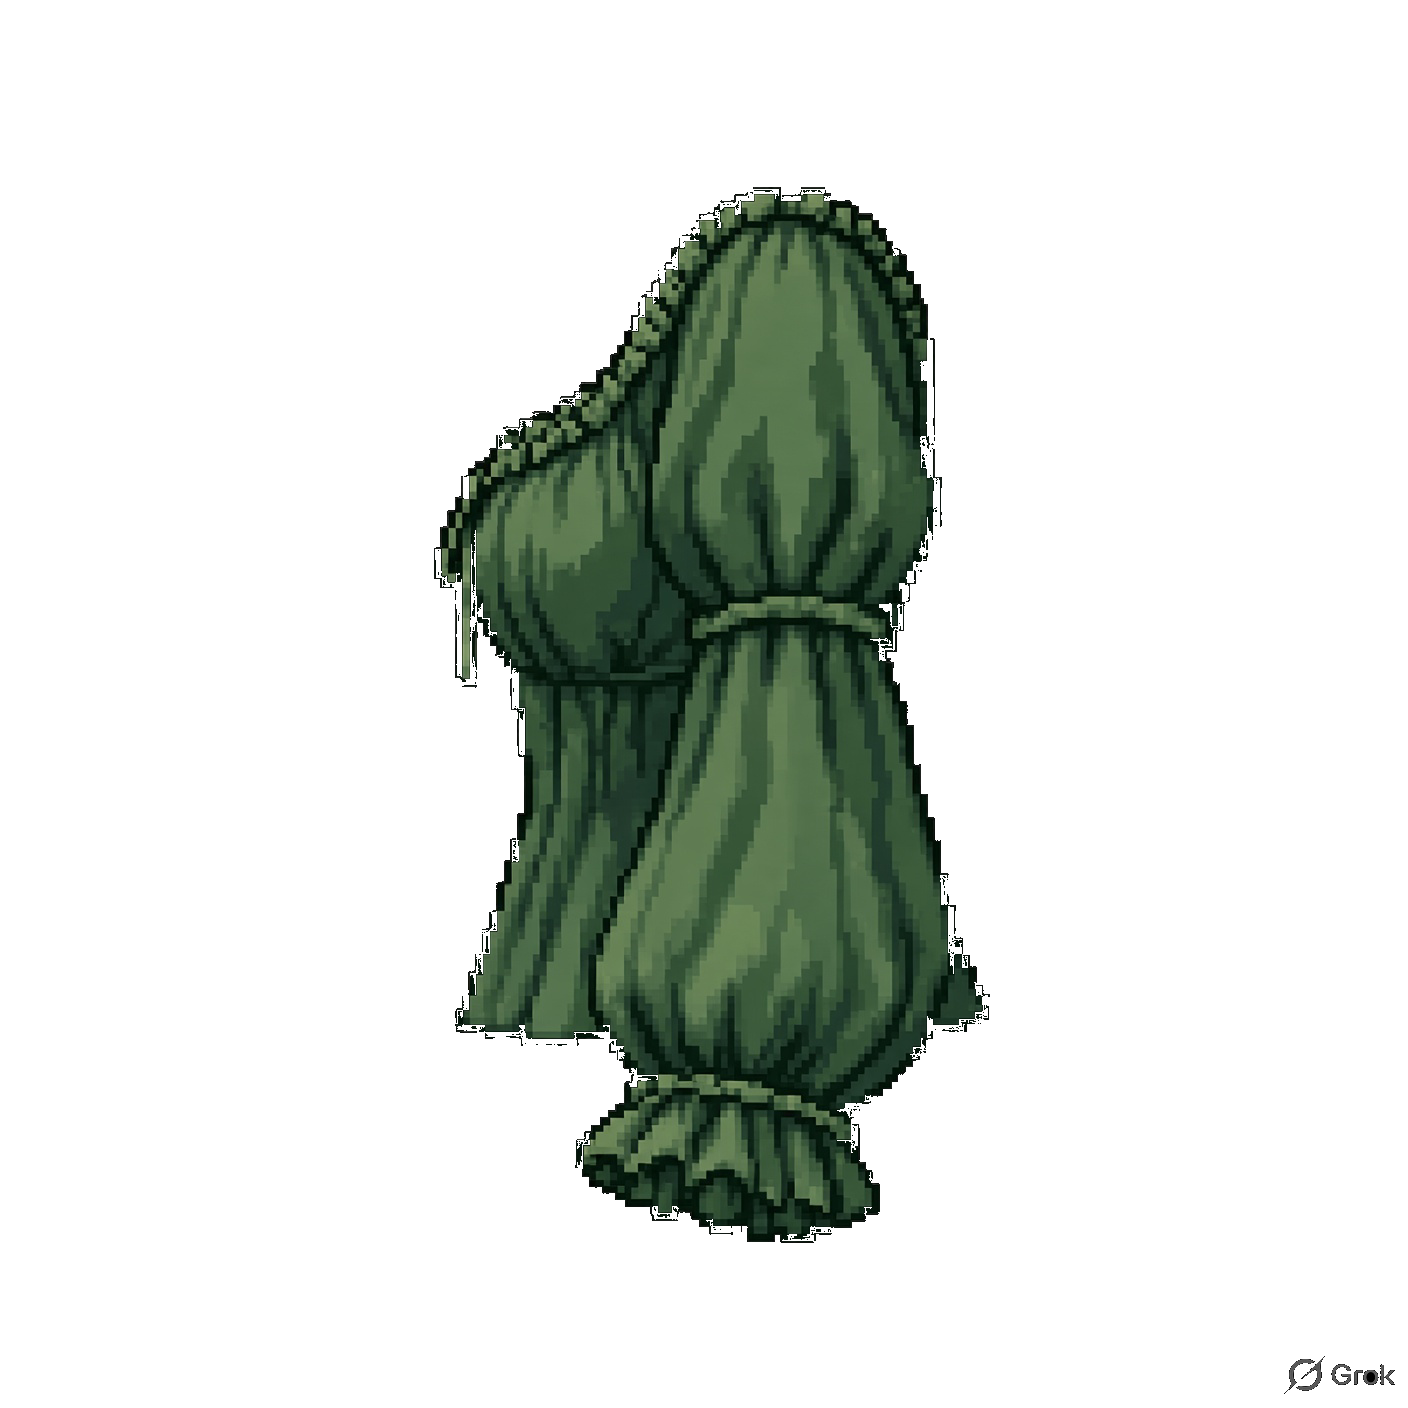
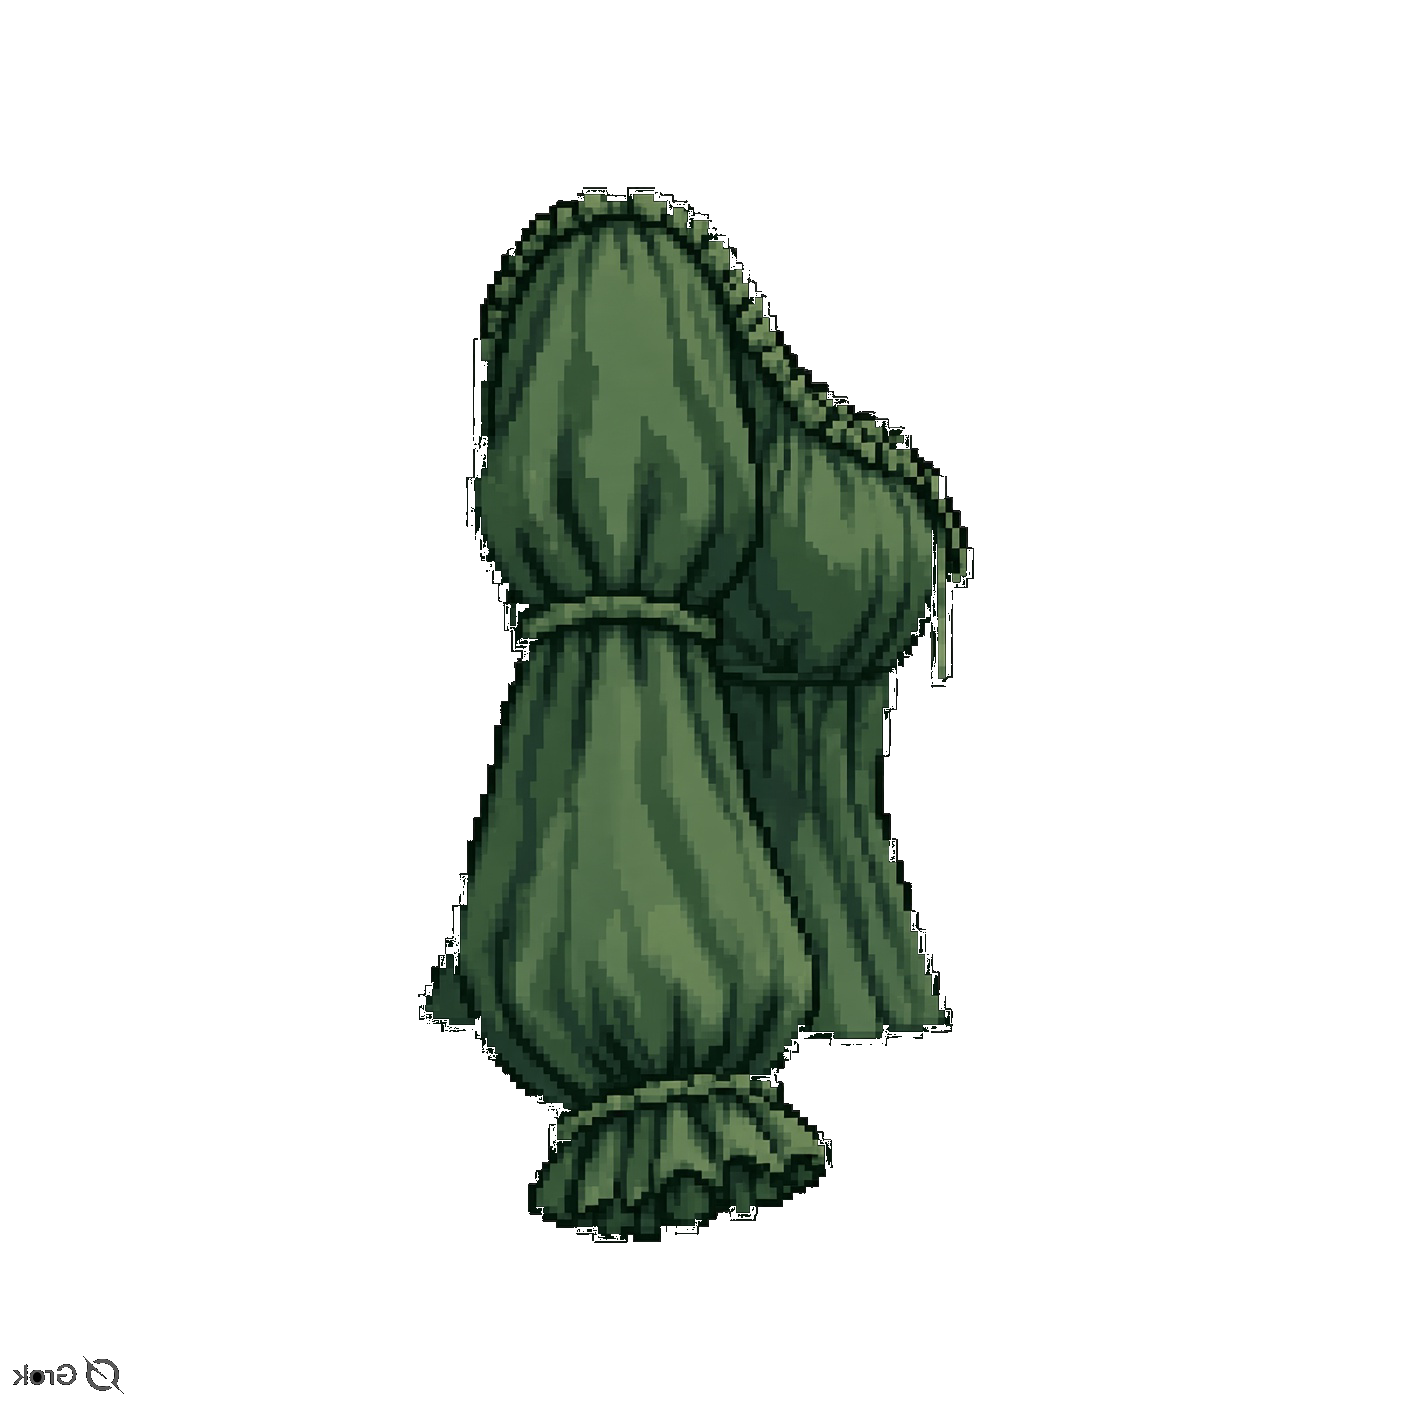
fix: finish directional clothing cleanup

Changed region(s): [[0.2812, 0.125, 0.7188, 0.9062], [0.9062, 0.9688, 1.0, 1.0], [0.0, 0.9688, 0.0938, 1.0]]

diff --git a/clothingLayers.js b/clothingLayers.js
@@ -62,13 +62,11 @@
     {id:'light',label:labelLight,defaultColor:{hue:110,saturation:45,value:72,opacity:1},views,sourceTone:'lightGreen'},
   ]});
   const twoToneTopViews=(views)=>twoToneGarment('shirt',views,'Main','Trim');
-  const twoToneTop=(path)=>twoToneTopViews({front:path,side:path,back:path});
 
   const GARMENTS={
     top_blouse:twoToneTopViews({front:'images/equipment/clothing/top_blouse_front.png',side:'images/equipment/clothing/top_blouse_side.png',back:'images/equipment/clothing/top_blouse_back.png'}),
     top_dress:{...twoToneTopViews({front:'images/equipment/clothing/top_dress_front.png',side:'images/equipment/clothing/top_dress_side.png',back:'images/equipment/clothing/top_dress_back.png'}),fitMode:'dressSplit',waistFraction:.39,maxSkirtWidth:.98},
     top_shirt_f:twoToneTopViews({front:'images/equipment/clothing/top_shirt_f_front.png',side:'images/equipment/clothing/top_shirt_f_side.png',back:'images/equipment/clothing/top_shirt_f_back.png'}),
-    top_masc_lacework:twoToneTop('images/equipment/clothing/top_masc_lacework.png'),
     top_masc_laced:twoToneTopViews({front:'images/equipment/clothing/top_masc_laced_front.png',side:'images/equipment/clothing/top_masc_laced_side.png',back:'images/equipment/clothing/top_masc_laced_back.png'}),
     pants_baggy_wraps:singleLayerViews('pants',{front:'images/equipment/clothing/pants_baggy_wraps_front.png',side:'images/equipment/clothing/pants_baggy_wraps_side.png',back:'images/equipment/clothing/pants_baggy_wraps_back.png'},'Baggy wraps'),
     pants_breeches:singleLayerViews('pants',{front:'images/equipment/clothing/pants_breeches_front.png',side:'images/equipment/clothing/pants_breeches_side.png',back:'images/equipment/clothing/pants_breeches_back.png'},'Breeches'),
@@ -102,8 +100,8 @@
     },'Main','Trim'),
   };
   const FEMININE_START_TOPS=['top_blouse','top_dress','top_shirt_f'];
-  const MASCULINE_START_TOPS=['top_masc_lacework','top_masc_laced'];
-  const RETIRED_TOPS=new Set(['top_shirt','top_tunic','top_masc_toggle','top_masc_buttoned','traveler_garb']);
+  const MASCULINE_START_TOPS=['top_masc_laced'];
+  const RETIRED_TOPS=new Set(['top_shirt','top_tunic','top_masc_toggle','top_masc_buttoned','top_masc_lacework','traveler_garb']);
   const STARTER_PANTS='pants_trousers';
   const PLAYER_DEFAULT={shirt:'top_masc_laced',pants:STARTER_PANTS,underwear:'underwear_briefs',bra:'underwear_bra'};
   const HUMANOID_RACES=new Set(['human','elf','dwarf','goblin','orc']);
@@ -136,7 +134,7 @@
     if(!window.items) return false;
     const names={
       top_blouse:'Blouse',top_dress:'Dress',top_shirt_f:'Fitted Shirt',
-      top_masc_lacework:'Lacework Shirt',top_masc_laced:'Laced Tunic',
+      top_masc_laced:'Laced Tunic',
       pants_baggy_wraps:'Baggy Wraps',pants_breeches:'Breeches',pants_hose:'Hose',pants_trousers:'Unisex Trousers',underwear_briefs:'Briefs',
       underwear_briefs_gstring:'G-string',underwear_bra:'Bra',underwear_bra_strapless:'Strapless Bra'
     };

diff --git a/tests-unit/clothing-render-regression.test.js b/tests-unit/clothing-render-regression.test.js
@@ -57,20 +57,20 @@ test('outerwear keeps a canonical armour-relative envelope while runtime tops us
 
 test('starter tops use retained assets and explicit directional views where authored', () => {
     const layersSource = read('clothingLayers.js');
-    contains(layersSource, 'images/equipment/clothing/top_masc_lacework.png');
     for (const id of ['top_blouse','top_dress','top_shirt_f','top_masc_laced']) {
         contains(layersSource, `front:'images/equipment/clothing/${id}_front.png'`);
         contains(layersSource, `side:'images/equipment/clothing/${id}_side.png'`);
         contains(layersSource, `back:'images/equipment/clothing/${id}_back.png'`);
         excludes(layersSource, `images/equipment/clothing/${id}.png`);
     }
-    contains(layersSource, "const MASCULINE_START_TOPS=['top_masc_lacework','top_masc_laced'];");
+    contains(layersSource, "const MASCULINE_START_TOPS=['top_masc_laced'];");
     contains(layersSource, "const FEMININE_START_TOPS=['top_blouse','top_dress','top_shirt_f'];");
-    contains(layersSource, "const RETIRED_TOPS=new Set(['top_shirt','top_tunic','top_masc_toggle','top_masc_buttoned','traveler_garb']);");
+    contains(layersSource, "const RETIRED_TOPS=new Set(['top_shirt','top_tunic','top_masc_toggle','top_masc_buttoned','top_masc_lacework','traveler_garb']);");
     contains(layersSource, "for(const id of MASCULINE_START_TOPS) if(window.items[id]) window.items[id].clothingGender='male';");
     contains(layersSource, "for(const id of FEMININE_START_TOPS) if(window.items[id]) window.items[id].clothingGender='female';");
     excludes(layersSource, "top_shirt:singleLayer('shirt'");
     excludes(layersSource, "top_tunic:singleLayer('shirt'");
+    excludes(layersSource, 'images/equipment/clothing/top_masc_lacework.png');
 });
 
 test('transparent underwear assets and alternate styles are wired as PNGs', () => {

diff --git a/fashionMarket.js b/fashionMarket.js
@@ -3,8 +3,8 @@
   'use strict';
   const BUILD='20260930-silverhart-fashion-v1';
   const GARMENT_PRICES={
-    top_blouse:28,top_dress:48,top_shirt_f:26,top_masc_lacework:30,
-    top_masc_laced:28,pants_baggy_wraps:18,pants_breeches:28,
+    top_blouse:28,top_dress:48,top_shirt_f:26,top_masc_laced:28,
+    pants_baggy_wraps:18,pants_breeches:28,
     pants_hose:24,pants_trousers:22,pants_shorts:18,pants_skirt:30,underwear_briefs:7,
     underwear_briefs_gstring:9,underwear_bra:12,underwear_bra_strapless:14
   };

diff --git a/assetLoadScheduler.js b/assetLoadScheduler.js
@@ -528,7 +528,7 @@
         const feminine=gender==='female';
         const tops=feminine
             ? ['top_blouse','top_dress','top_shirt_f']
-            : ['top_masc_lacework','top_masc_laced'];
+            : ['top_masc_laced'];
         const selectedTops=allViews ? tops : [tops[hash(`${race}_${gender}|top`)%tops.length]];
         const directionalTops=new Set(['top_blouse','top_dress','top_shirt_f','top_masc_laced']);
         const topPath=(top,view='front')=>directionalTops.has(top)

diff --git a/clothingSystem.js b/clothingSystem.js
@@ -3,7 +3,7 @@
 (() => {
   'use strict';
   const BUILD=window.PRESENTATION_BUILD||'20261001-footwear-v1';
-  const RETIRED_GARMENTS=new Set(['fine_tunic','noble_doublet','scholars_robe','traveler_garb','top_masc_toggle','top_masc_buttoned']);
+  const RETIRED_GARMENTS=new Set(['fine_tunic','noble_doublet','scholars_robe','traveler_garb','top_masc_toggle','top_masc_buttoned','top_masc_lacework']);
 
   function load(src,key){
     const attr=`data-${key}`;

diff --git a/companionFashionPreferences.js b/companionFashionPreferences.js
@@ -48,7 +48,6 @@ const PROFILES = Object.freeze({
 });
 
 const CATALOG = Object.freeze({
-  top_masc_lacework:{ masculine:.9, structured:.45, fitted:.45, ornate:.55 },
   top_masc_laced:{ masculine:.9, structured:.5, fitted:.5, practical:.45 },
   top_blouse:{ feminine:.75, flowing:.55, formal:.2 },
   top_dress:{ feminine:1, flowing:.7, formal:.45, revealing:.15 },
